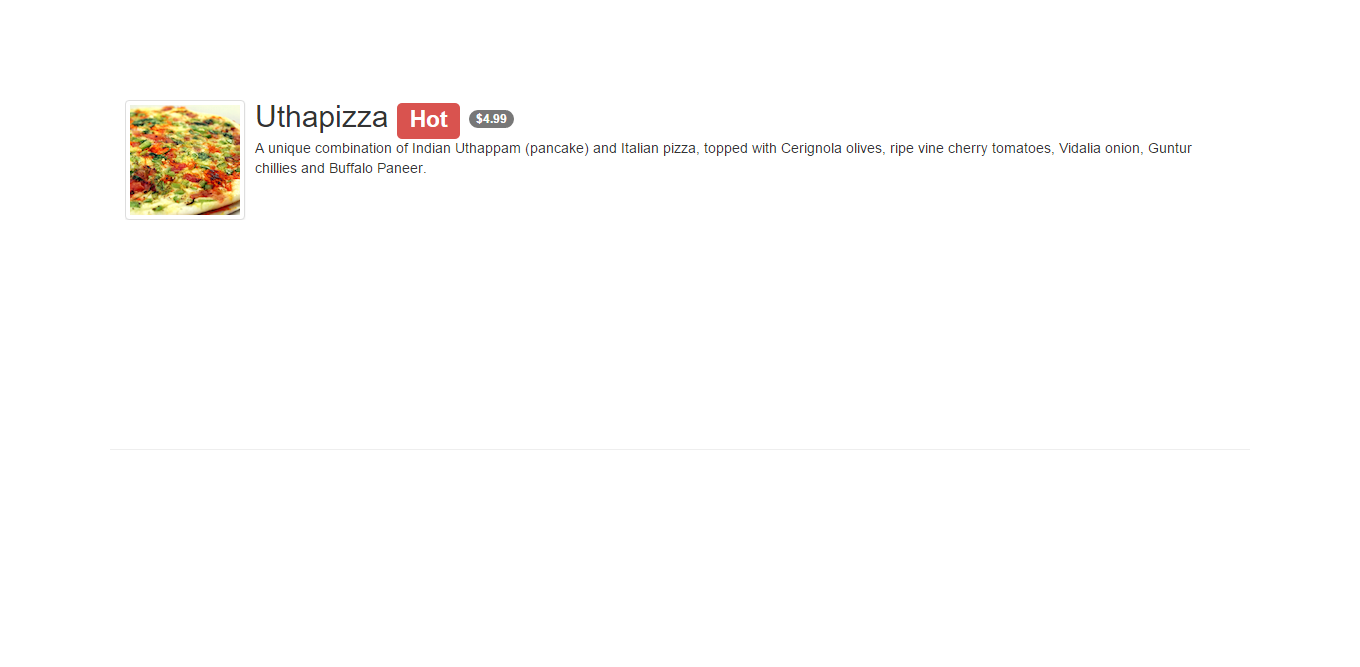
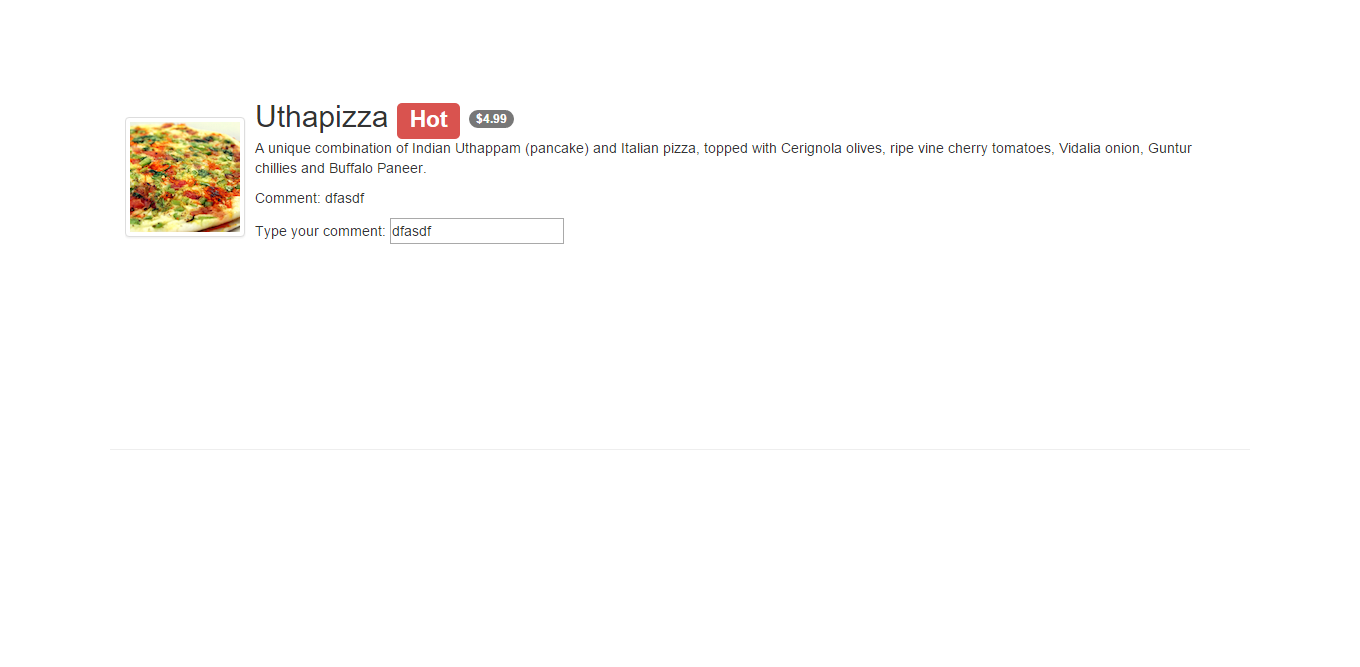
Two-way Binding

Changed region(s): [[0.0926, 0.1499, 0.3088, 0.3598]]

diff --git a/app/menu.html b/app/menu.html
@@ -54,9 +54,11 @@
                          <span class="label label-danger">{{dish.label}}</span>
                          <span class="badge">{{dish.price | currency}}</span></h2>
                         <p>{{dish.description}}</p>
+                        <p>Comment: {{dish.comment}}</p>
+                        <p>Type your comment:
+                         <input type="text" ng-model="dish.comment"></p>                        
                     </div>
-                </div>
-                
+                </div>                
             </div>
         </div>
     </div>
